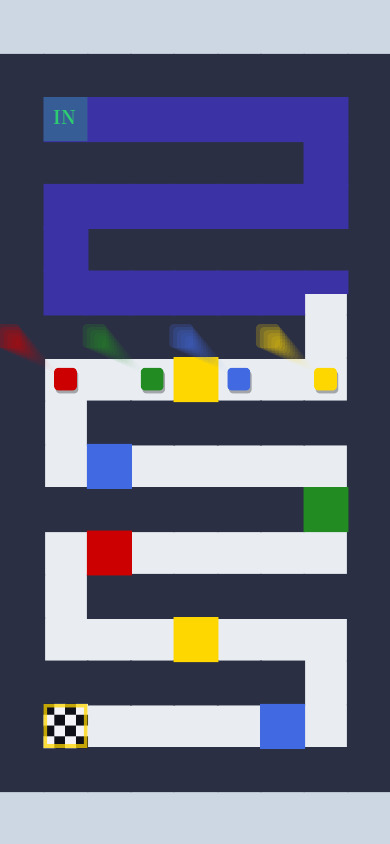
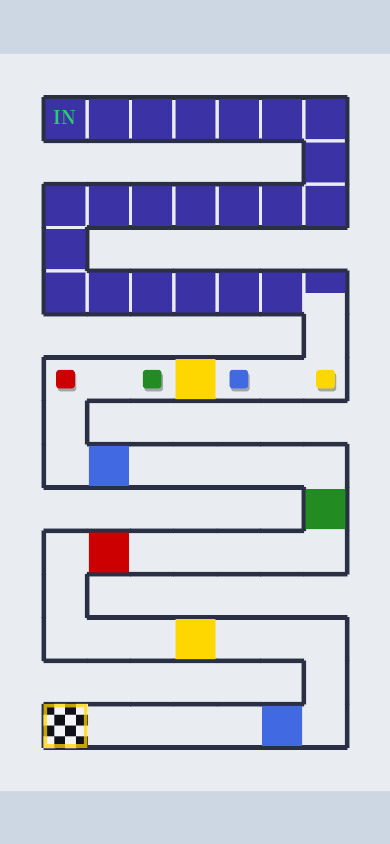
Refine maze walls to thin 4px outline-only borders and regenerate snapshot

diff --git a/www/game.js b/www/game.js
@@ -270,7 +270,7 @@
   /* =========================================================
    * SHARED CONSTANTS
    * ========================================================= */
-  const SQUARE_SIZE = 22;
+  const SQUARE_SIZE = 18; // reduced 20% from 22
   const COLORS = {
     yellow: '#FFD700', blue: '#4169E1', green: '#228B22', red: '#CC0000'
   };
@@ -278,7 +278,8 @@
   // Flat solid game colors — NO gradients/checker/grid so nothing reveals cells.
   const BG_COLOR = '#cdd6e3';    // letterbox background (above/below the maze)
   const FLOOR_COLOR = '#e9edf2'; // solid corridor floor
-  const WALL_COLOR = '#2b2f44';  // solid wall blocks
+  const WALL_COLOR = '#2b2f44';  // thin wall separator lines
+  const WALL_THICKNESS = 5;      // px — walls are thin lines, not full cells
   const FLOOD_COLOR = '#3b32a6'; // solid advancing flood wall
   // Per-color base speed (px/sec). Yellow fastest .. blue slowest.
   // Speeds reduced 30% from the original tuning so motion is easy to follow.
@@ -1267,13 +1268,23 @@
     ctx.fillStyle = FLOOR_COLOR;
     ctx.fillRect(MAZE.offX, MAZE.offY, mazeW, mazeH);
 
-    // 3) WALLS: solid dark blocks with NO cell borders, bevels, or highlights.
-    //    Each wall cell is filled with the exact same flat color and no stroke,
-    //    so adjacent wall cells merge into one seamless solid shape.
+    // 3) WALLS: draw ONLY thin outline segments around OPEN corridor cells.
+    //    This makes the maze read as mostly open floor with dark separators,
+    //    instead of visually suggesting that wall cells are filled blocks.
+    const T = 4;
+    const inset = T / 2;
+    const ox = MAZE.offX, oy = MAZE.offY, cw = MAZE.cellW, ch = MAZE.cellH;
+    const isOpenCell = (c, r) => r >= 0 && c >= 0 && r < MAZE.rows && c < MAZE.cols && MAZE.grid[r][c] !== '#';
     ctx.fillStyle = WALL_COLOR;
-    for (const w of MAZE.walls) {
-      // +1px overlap guarantees no hairline seam shows between adjacent cells.
-      ctx.fillRect(w.x, w.y, w.w + 1, w.h + 1);
+    for (let r = 0; r < MAZE.rows; r++) {
+      for (let c = 0; c < MAZE.cols; c++) {
+        if (!isOpenCell(c, r)) continue;
+        const x = ox + c * cw, y = oy + r * ch;
+        if (!isOpenCell(c, r - 1)) ctx.fillRect(x, y - inset, cw, T);
+        if (!isOpenCell(c, r + 1)) ctx.fillRect(x, y + ch - inset, cw, T);
+        if (!isOpenCell(c - 1, r)) ctx.fillRect(x - inset, y, T, ch);
+        if (!isOpenCell(c + 1, r)) ctx.fillRect(x + cw - inset, y, T, ch);
+      }
     }
 
     // Entry marker: a solid translucent tint + label (no grid).

diff --git a/NOTES.md b/NOTES.md
@@ -386,3 +386,33 @@ timing ~80s all 5 (under 120s cap); bricks, fairness, pure-physics all PASS
 count is now ~10/stage (longer paths). Snapshot re-rendered (snapshot.jpg):
 solid flat floor/walls/flood/bricks, plain solid squares, square cells,
 centered maze with background letterbox.
+
+## UPDATE — thin walls + smaller squares (this session)
+
+User: walls should be THIN lines (4-6px) between corridors like the original
+game, not thick full-cell blocks; corridor floor should fill almost the entire
+cell with only a thin dark separator line. Also reduce square size 20%.
+
+Done:
+1. **Thin wall lines** — `drawMaze` walls section rewritten. Instead of filling
+   each '#' cell solid, it now draws a thin `WALL_THICKNESS = 5`px line only on
+   the edges of a wall cell that border an OPEN/corridor cell (or the outer maze
+   border), straddling the boundary. The corridor floor fills ~88% of the cell;
+   the wall is just a thin separator line. IMPORTANT: physics is UNCHANGED — a
+   '#' cell is still fully solid in isWallAtPixel/isWallForSquare, so squares
+   bounce exactly at the boundary where the thin line sits (the line IS the wall
+   they hit). Verified: wall-cell interior reads solid, corridor interior reads
+   passable, all timing/brick/fairness/physics tests still pass.
+   - Flood + bricks still fill the full path cell (they're the wall/gate filling
+     the wide corridor edge-to-edge, matching the reference's blue wall sweep);
+     they draw over the thin separator lines along the corridor as they advance.
+2. **Square size -20%** — `SQUARE_SIZE` 22 -> 18.
+
+Verification (/tmp/verify*.js, rebuilt after /tmp was cleared): SQUARE_SIZE=18;
+cells still perfect squares (43.33) all 5; flood settles ~76-80s all 5 (under
+120s cap); pure physics (constant speed, reflection, no rotation); thin-wall
+collision (wall solid / corridor passable); brick gates (wrong=wall, match=pass)
+all PASS. Snapshot re-rendered (snapshot.jpg): thin 5px wall lines, wide ~88%
+corridor floor, smaller solid squares.
+
+- User refinement applied: maze rendering now draws wall borders from the OPEN corridor cells themselves as ~4px outline segments only, so corridors read as wide open floor and non-flood wall cells are no longer visually perceived as filled blocks.